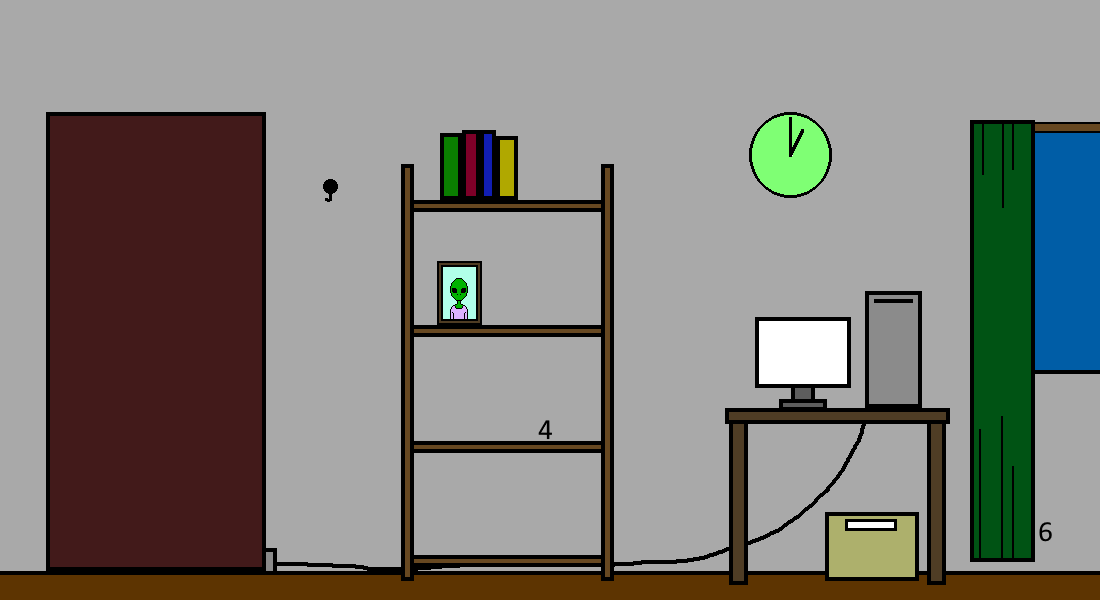
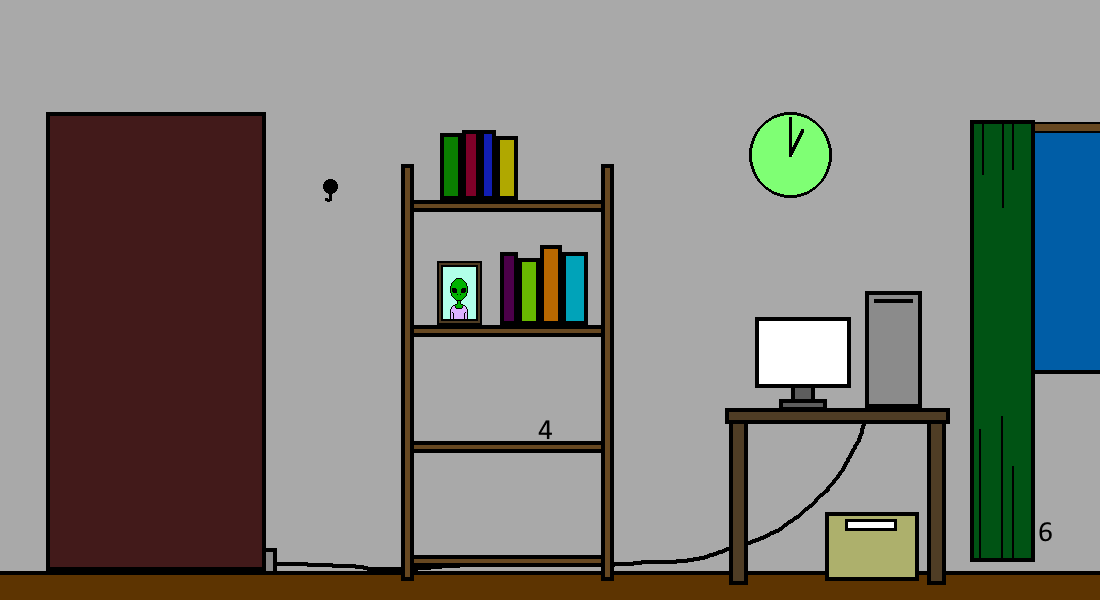
Lisätty grafiikkaa / 2.6.2021 / Karoliina S.

Changed region(s): [[0.4327, 0.39, 0.5564, 0.54]]

diff --git a/pakohuonepeli/peli.html b/pakohuonepeli/peli.html
@@ -86,6 +86,42 @@
           <img src="grafiikka/book3.png">
         </div>
       </div>
+      <!-- KIRJA 5-->
+      <div class="modal">
+        <div class="modal-content">
+          <button class="close" onclick="shut(this)">&times;</button>
+          <br><br>
+          <img src="grafiikka/sivu_tyhja.png">
+          <p id="soundCred">Sound credits:</p>
+        </div>
+      </div>
+      <!-- KIRJA 6-->
+      <div class="modal">
+        <div class="modal-content">
+          <button class="close" onclick="shut(this)">&times;</button>
+          <br><br>
+          <img src="grafiikka/sivu_tyhja.png">
+          <p id="codeCred">Code credits:</p>
+        </div>
+      </div>
+      <!-- KIRJA 7-->
+      <div class="modal">
+        <div class="modal-content">
+          <button class="close" onclick="shut(this)">&times;</button>
+          <br><br>
+          <img src="grafiikka/sivu_tyhja.png">
+          <p id="graphCred">Graphic credits:</p>
+        </div>
+      </div>
+      <!-- KIRJA 8-->
+      <div class="modal">
+        <div class="modal-content">
+          <button class="close" onclick="shut(this)">&times;</button>
+          <br><br>
+          <img src="grafiikka/sivu_tyhja.png">
+          <p id="botit">This game was developed by <br>Team Botit <br>2021</p>
+        </div>
+        </div>
       <!--AVAIN-->
       <div class="modal" id="modal-key">
         <div class="modal-content">
@@ -139,7 +175,6 @@
           <p>P.S. Don't forget your bag and jacket!</p>
         </div>
       </div>
-
       <!--OVI AUKI -->
       <div class="modal" id="modal-doorOpen">
         <div class="modal-content">
@@ -147,7 +182,6 @@
           <p>The door is open!</p>
         </div>
       </div>
-
       <!--VERHO -->
       <div class="modal" id="modal-curtain">
         <div class="modal-content">
@@ -155,7 +189,6 @@
           <p>It's a curtain</p>
         </div>
       </div>
-
       <!--LAUKKU-->
       <div class="modal" id="modal-bag">
         <div class="modal-content">
@@ -163,7 +196,6 @@
           <p>It's a bag</p>
         </div>
       </div>
-
       <!--TAKKI-->
       <div class="modal" id="modal-jacket">
         <div class="modal-content">
@@ -171,7 +203,6 @@
           <button class="close" onclick="shut(this)">&times;</button>
         </div>
       </div>
-
       <!--RUUKKU-->
       <div class="modal" id="modal-pot">
         <div class="modal-content">
@@ -179,7 +210,6 @@
           <p>It's a pot</p>
         </div>
       </div>
-
       <!--PC RIKKI-->
       <div class="modal" id="modal-pc-broken">
         <div class="modal-content">
@@ -187,7 +217,6 @@
           <p>I broke my PC...</p>
         </div>
       </div>
-
 
 
       <!--PELIALUE -->
@@ -220,30 +249,34 @@
       <area alt="kirja2" id="hit-book2" onclick="popup(7)" coords="464,130,477,196" shape="rect">
       <area alt="kirja3" id="hit-book3" onclick="popup(8)" coords="483,132,493,196" shape="rect">
       <area alt="kirja4" id="hit-book4" onclick="popup(9)" coords="500,140,515,198" shape="rect">
+      <area alt="kirja5" id="hit-book5" onclick="popup(10)" coords="501,253,514,323" shape="rect">
+      <area alt="kirja6" id="hit-book6" onclick="popup(11)" coords="520,261,536,323" shape="rect">
+      <area alt="kirja7" id="hit-book7" onclick="popup(12)" coords="540,245,560,322" shape="rect">
+      <area alt="kirja8" id="hit-book8" onclick="popup(13)" coords="563,254,586,324" shape="rect">
     </map>
 
     <!--ERILLISTEN OBJEKTIEN HITBOXIT -->
 
     <map name="key-map">
-      <area alt="avain" id="hit-key" onclick="popup(10)" coords="46,83,12,4" shape="rect">
+      <area alt="avain" id="hit-key" onclick="popup(14)" coords="46,83,12,4" shape="rect">
     </map>
     <map name="box-map">
-      <area alt="laatikko" id="hit-box" onclick="popup(11)" coords="107,23,13,109" shape="rect">
+      <area alt="laatikko" id="hit-box" onclick="popup(15)" coords="107,23,13,109" shape="rect">
     </map>
     <map name="lock-key-map">
-      <area alt="lukko_avain" id="hit-lock-key" onclick="popup(12)" coords="59,14,21,71" shape="rect">
+      <area alt="lukko_avain" id="hit-lock-key" onclick="popup(16)" coords="59,14,21,71" shape="rect">
     </map>
     <map name="lock-code-map">
-      <area alt="lukko_koodi" id="hit-lock-code" onclick="popup(13)" coords="7,63,45,5" shape="rect">
+      <area alt="lukko_koodi" id="hit-lock-code" onclick="popup(17)" coords="7,63,45,5" shape="rect">
     </map>
     <map name="lock-elec-map">
-      <area alt="lukko_sahko" id="hit-lock-elec" onclick="popup(14)" coords="12,70,50,12" shape="rect">
+      <area alt="lukko_sahko" id="hit-lock-elec" onclick="popup(18)" coords="12,70,50,12" shape="rect">
     </map>
     <map name="note-map">
-      <area alt="muistilappu" id="hit-note" onclick="popup(15)" coords="62,1,-1,83" shape="rect">
+      <area alt="muistilappu" id="hit-note" onclick="popup(19)" coords="62,1,-1,83" shape="rect">
     </map>
     <map name="door-open-map">
-      <area alt="ovi_auki" id="hit-door-open" onclick="popup(16)" coords="26,487,245,28" shape="rect">
+      <area alt="ovi_auki" id="hit-door-open" onclick="popup(20)" coords="26,487,245,28" shape="rect">
     </map>
     <map name="curtain-map">
       <area alt="verho" id="hit-curtain" onclick="curtainOff()" coords="24,484,138,42" shape="rect">

diff --git a/pakohuonepeli/peli.css b/pakohuonepeli/peli.css
@@ -113,3 +113,35 @@ map{
 .movePot{
   left: 450px;
 }
+
+#soundCred{
+  position: absolute;
+  bottom: 50px;
+  top: 100px;
+  left: 350px;
+  color: black;
+}
+
+#codeCred{
+  position: absolute;
+  bottom: 50px;
+  top: 100px;
+  left: 350px;
+  color: black;
+}
+
+#graphCred{
+  position: absolute;
+  bottom: 50px;
+  top: 100px;
+  left: 340px;
+  color: black;
+}
+
+#botit{
+  position: absolute;
+  bottom: 50px;
+  top: 100px;
+  left: 290px;
+  color: black;
+}
